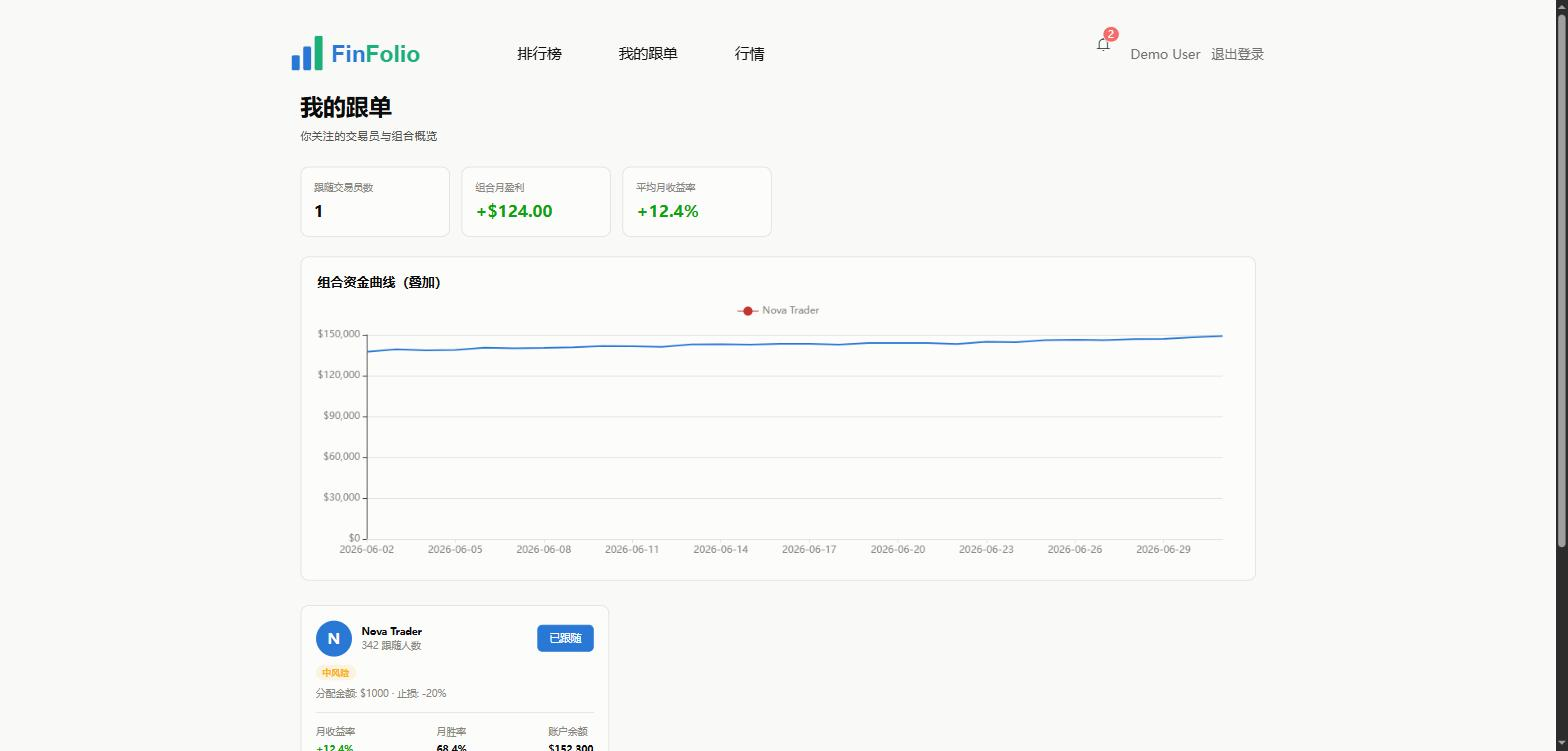
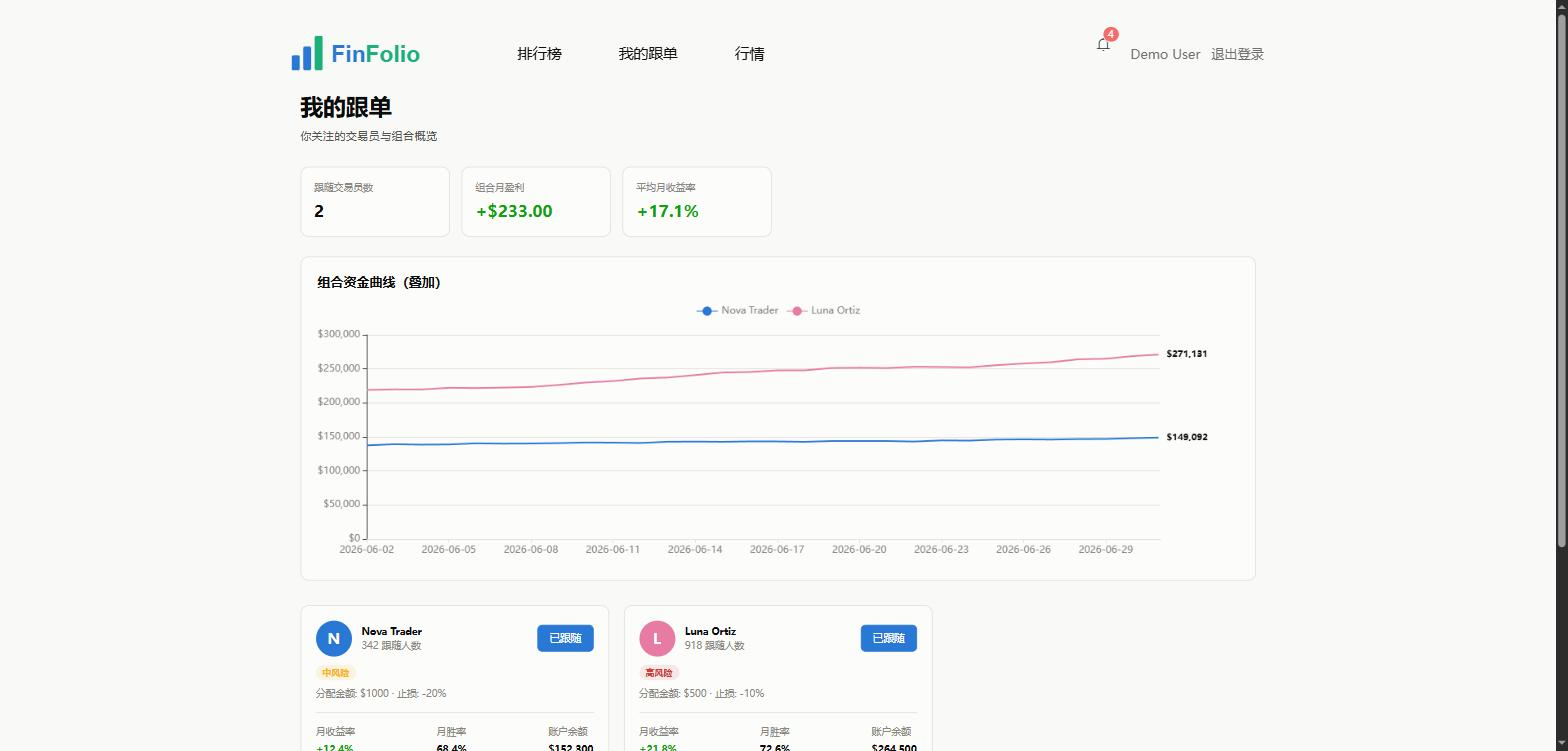
設計修正:圖表分類色改為 CVD 驗證順序 + 登入/註冊頁 token 化 + 端點直接標註
依資料視覺化規範(色盲安全驗證器)修正三件事:

- chart-1..8 分類色重排為通過驗證的順序:舊順序在「一般視覺區分度」
  檢查 FAIL(橙↔洋紅 ΔE 12.9 < 15),新順序 PASS(worst adjacent 19.6)。
  順序即色盲安全機制,已在 CSS 與 CLAUDE.md 註記不得任意調換
- 登入/註冊頁移除寫死色碼(紫標題 #4f46a5、藍漸層按鈕、Element 紅色
  註冊鈕),全部改吃既有 design token(--ink-primary/--brand-primary),
  與全站風格一致
- 「我的跟单」資金曲線加端點直接標註(最新資產值,墨色文字 + 端點
  圓點帶表面色圓環):值不靠 hover 就可見,同時作為淺色系列的
  可讀性緩解。ECharts 4 沒有 v5 的 endLabel,採最後一點單獨給
  symbol+label 的 v4 相容做法,坑已記錄於 CLAUDE.md

更新截圖(新色序 + 端點標註);實機驗證登入頁、排行榜、資金曲線。

diff --git a/src/components/following/dashboard.vue b/src/components/following/dashboard.vue
@@ -123,9 +123,11 @@ export default {
       }
       const border = cssVar(this.$el, '--border-hairline')
       const muted = cssVar(this.$el, '--ink-muted')
+      const inkPrimary = cssVar(this.$el, '--ink-primary')
       const dates = this.followedTraders[0].equityCurve.map((p) => p.date)
       this.chart.setOption({
-        grid: { left: 60, right: 20, top: 40, bottom: 30 },
+        // 右側留白給端點直接標註(直接標註 = 不 hover 也讀得到最新值)
+        grid: { left: 60, right: 96, top: 40, bottom: 30 },
         tooltip: { trigger: 'axis' },
         legend: {
           top: 0,
@@ -144,13 +146,45 @@ export default {
           splitLine: { lineStyle: { color: border } },
           axisLabel: { color: muted, formatter: (v) => '$' + v.toLocaleString('en-US') }
         },
-        series: this.followedTraders.map((t) => ({
-          name: t.name,
-          type: 'line',
-          data: t.equityCurve.map((p) => p.value),
-          symbol: 'none',
-          lineStyle: { color: resolveAvatarColor(this.$el, t.avatarColor), width: 2 }
-        }))
+        series: this.followedTraders.map((t) => {
+          const lineColor = resolveAvatarColor(this.$el, t.avatarColor)
+          const surface = cssVar(this.$el, '--surface-card')
+          const last = t.equityCurve.length - 1
+          return {
+            name: t.name,
+            type: 'line',
+            // 端點直接標註最新值(ECharts 4 沒有 v5 的 endLabel,改用
+            // 「最後一個資料點單獨給 symbol + label」的 v4 相容做法)。
+            // 文字用墨色 token(文字不穿系列色);端點圓點帶表面色圓環。
+            // 這也是淺色系列的可讀性緩解——值不靠 hover 就可見。
+            data: t.equityCurve.map((p, i) =>
+              i === last
+                ? {
+                    value: p.value,
+                    symbol: 'circle',
+                    symbolSize: 8,
+                    itemStyle: {
+                      color: lineColor,
+                      borderColor: surface,
+                      borderWidth: 2
+                    },
+                    label: {
+                      show: true,
+                      position: 'right',
+                      formatter: (params) =>
+                        '$' + Number(params.value).toLocaleString('en-US'),
+                      color: inkPrimary,
+                      fontSize: 11,
+                      fontWeight: 600
+                    }
+                  }
+                : p.value
+            ),
+            symbol: 'none',
+            lineStyle: { color: lineColor, width: 2 },
+            itemStyle: { color: lineColor }
+          }
+        })
       }, true)
       this.chart.resize()
     }

diff --git a/src/components/login/register_new.vue b/src/components/login/register_new.vue
@@ -62,11 +62,10 @@
           <span class="downxy" @click="downXY">{{$t('register.has_read')}}</span>
         </el-form-item>
         <el-button
-          type="danger"
-          round
+          type="primary"
           @click="register"
           :loading="registerLoading"
-          class="button"
+          class="button signup-btn"
         >{{ $t('register.signup') }}</el-button>
         <p style="text-align: center;padding-top: 10px;">
           <span style="vertical-align: middle;">{{ $t('register.has_account') }}？</span>
@@ -266,7 +265,7 @@ body {
 
 .header > h2 {
   margin: 0;
-  color: #4f46a5;
+  color: var(--ink-primary);
 }
 
 .form {
@@ -278,6 +277,18 @@ body {
 .form > p {
   font-size: 14px;
   text-align: right;
+}
+
+/* 註冊鈕吃品牌 token,不用 Element 預設藍 */
+.signup-btn.el-button--primary {
+  background: var(--brand-primary);
+  border-color: var(--brand-primary);
+  transition: background-color 120ms ease;
+}
+.signup-btn.el-button--primary:hover,
+.signup-btn.el-button--primary:focus {
+  background: var(--brand-primary-hover);
+  border-color: var(--brand-primary-hover);
 }
 
 .logo {

diff --git a/src/components/login/login_new.vue b/src/components/login/login_new.vue
@@ -181,7 +181,7 @@ body {
 
 .header > h2 {
   margin: 0;
-  color: #4f46a5;
+  color: var(--ink-primary);
 }
 
 .header > h4 {
@@ -206,8 +206,8 @@ body {
   width: 100%;
   height: 46px;
   padding: 0 16px;
-  border: 2px solid #ddd;
-  border-radius: 4px;
+  border: 1px solid var(--border-hairline);
+  border-radius: 6px;
   font-family: 'Rubik', sans-serif;
   outline: 0;
   transition: 0.2s;
@@ -215,19 +215,24 @@ body {
 }
 
 .form-field:focus {
-  border-color: #0f7ef1;
+  border-color: var(--brand-primary);
 }
 
 .form > button {
   padding: 12px 10px;
   border: 0;
-  background: linear-gradient(to right, #4cbdf5 0%, #0097ff 100%);
-  border-radius: 3px;
+  background: var(--brand-primary);
+  border-radius: 6px;
   margin-top: 10px;
   color: #fff;
   letter-spacing: 1px;
   font-family: 'Rubik', sans-serif;
   cursor: pointer;
+  transition: background-color 120ms ease;
+}
+
+.form > button:hover {
+  background: var(--brand-primary-hover);
 }
 
 .header {

diff --git a/src/assets/css/common_styles.css b/src/assets/css/common_styles.css
@@ -17,15 +17,17 @@
     --ink-muted: #898781;
     --border-hairline: #e1e0d9;
 
-    /* Chart categorical (fixed order, do not cycle) */
+    /* Chart categorical (fixed order, do not cycle)
+       順序即色盲安全機制:此排列通過驗證器的 CVD 與一般視覺區分度檢查
+       (worst adjacent ΔE 19.6),不要任意調換。 */
     --chart-1: #2a78d6;
-    --chart-2: #1baf7a;
-    --chart-3: #eda100;
-    --chart-4: #008300;
-    --chart-5: #4a3aa7;
-    --chart-6: #e34948;
-    --chart-7: #e87ba4;
-    --chart-8: #eb6834;
+    --chart-2: #008300;
+    --chart-3: #e87ba4;
+    --chart-4: #eda100;
+    --chart-5: #1baf7a;
+    --chart-6: #eb6834;
+    --chart-7: #4a3aa7;
+    --chart-8: #e34948;
 }
 
 .iconfont {

diff --git a/CLAUDE.md b/CLAUDE.md
@@ -69,6 +69,9 @@ Vue 2.5（只用 Options API，沒有 Composition API）+ Vuex 3 + Vue Router 3 
 10 位交易員的資料是從一個小型的 `seeds` 陣列，搭配一個帶種子的線性同餘法亂數產生器（`seededRandom`）產生出來的，這樣每次重新整理頁面時資金曲線／交易紀錄都會是同一組（可重現）。`riskLevel`（風險等級）是透過 `riskLevelFromReturn()` 依 `monthReturnRatePct` 的絕對值換算出來的，不是手動填寫的。之後如果要新增欄位，盡量比照這個做法用既有的 seed 資料換算出來，不要為每位交易員手動寫死數值。
 
 ### 顏色 token（`src/assets/css/common_styles.css` 的 `:root`）
+
+**`--chart-1` 到 `--chart-8` 的順序是色盲安全機制,不是裝飾**——這個排列通過過驗證器的 CVD 與一般視覺區分度檢查（worst adjacent ΔE 19.6;2026-07 曾因舊順序 FAIL 一般視覺門檻而重排過）,不要任意調換順序或插入新色。
+
 顏色都定義成 CSS 自訂屬性（`--brand-primary`、`--surface-page`／`--surface-card`、`--ink-primary`／`--ink-secondary`／`--ink-muted`、盈虧用的 `--color-good`／`--color-critical`、圖表分類色 `--chart-1` 到 `--chart-8` 等），元件都用這些 token 寫樣式（`var(--brand-primary)` 等）。**新元件請不要寫死十六進位色碼**，一律使用現有的 token 名稱。網站目前固定使用亮色主題（先前實驗過的深色模式已完整移除）。
 
 **ECharts 是唯一一個 token 不會自動生效的地方**：canvas 繪圖沒辦法直接讀取 `var()`，所以圖表的顏色設定必須在渲染當下透過 `src/utils/chartTheme.js`（`cssVar(el, '--token名稱')`，內部用 `getComputedStyle` 解析）取得實際顏色值。可以參考 `src/components/leaderboard/detail.vue`、`src/components/following/dashboard.vue` 或 `src/components/market/detail.vue` 的寫法。
@@ -85,6 +88,9 @@ Vue 2.5（只用 Options API，沒有 Composition API）+ Vuex 3 + Vue Router 3 
 - `src/utils/requireLogin.js` — 目前唯一的登入攔截機制；任何新增的、需要登入才能執行的動作都應該包在這個函式裡。
 - `src/utils/chartTheme.js` — `cssVar()`／`resolveAvatarColor()`，用來取得圖表顏色。
 - `src/utils/marketApi.js` — CoinGecko API 的 `fetch` 封裝（價格、K 線）。
+
+### ECharts 版本的坑
+runtime 實際載入的是 **ECharts 4.1.0**（`static/lib/echarts.min.js`,對應 npm 的 echarts 4.1.0）——**v5 才有的 API（如 line 系列的 `endLabel`、`labelLayout`）會被靜默忽略,不報錯也不渲染**。要做「端點直接標註」,用 v4 相容做法:最後一個資料點單獨給 `{value, symbol, symbolSize, itemStyle, label}` 物件（參考 `following/dashboard.vue` 的 renderChart）。
 
 ### ECharts 尺寸相關的坑
 如果在 `mounted()`／`$nextTick` 裡呼叫 `echarts.init()`，有可能會在版面還沒完全穩定時就抓到過小的容器寬度，導致圖表畫出來整個擠在畫面最左邊一小塊。現有的圖表渲染方法都會在 `setOption()` 之後緊接著呼叫 `this.chart.resize()`，強制重新量測容器尺寸——之後新增圖表時請保留這個呼叫。
